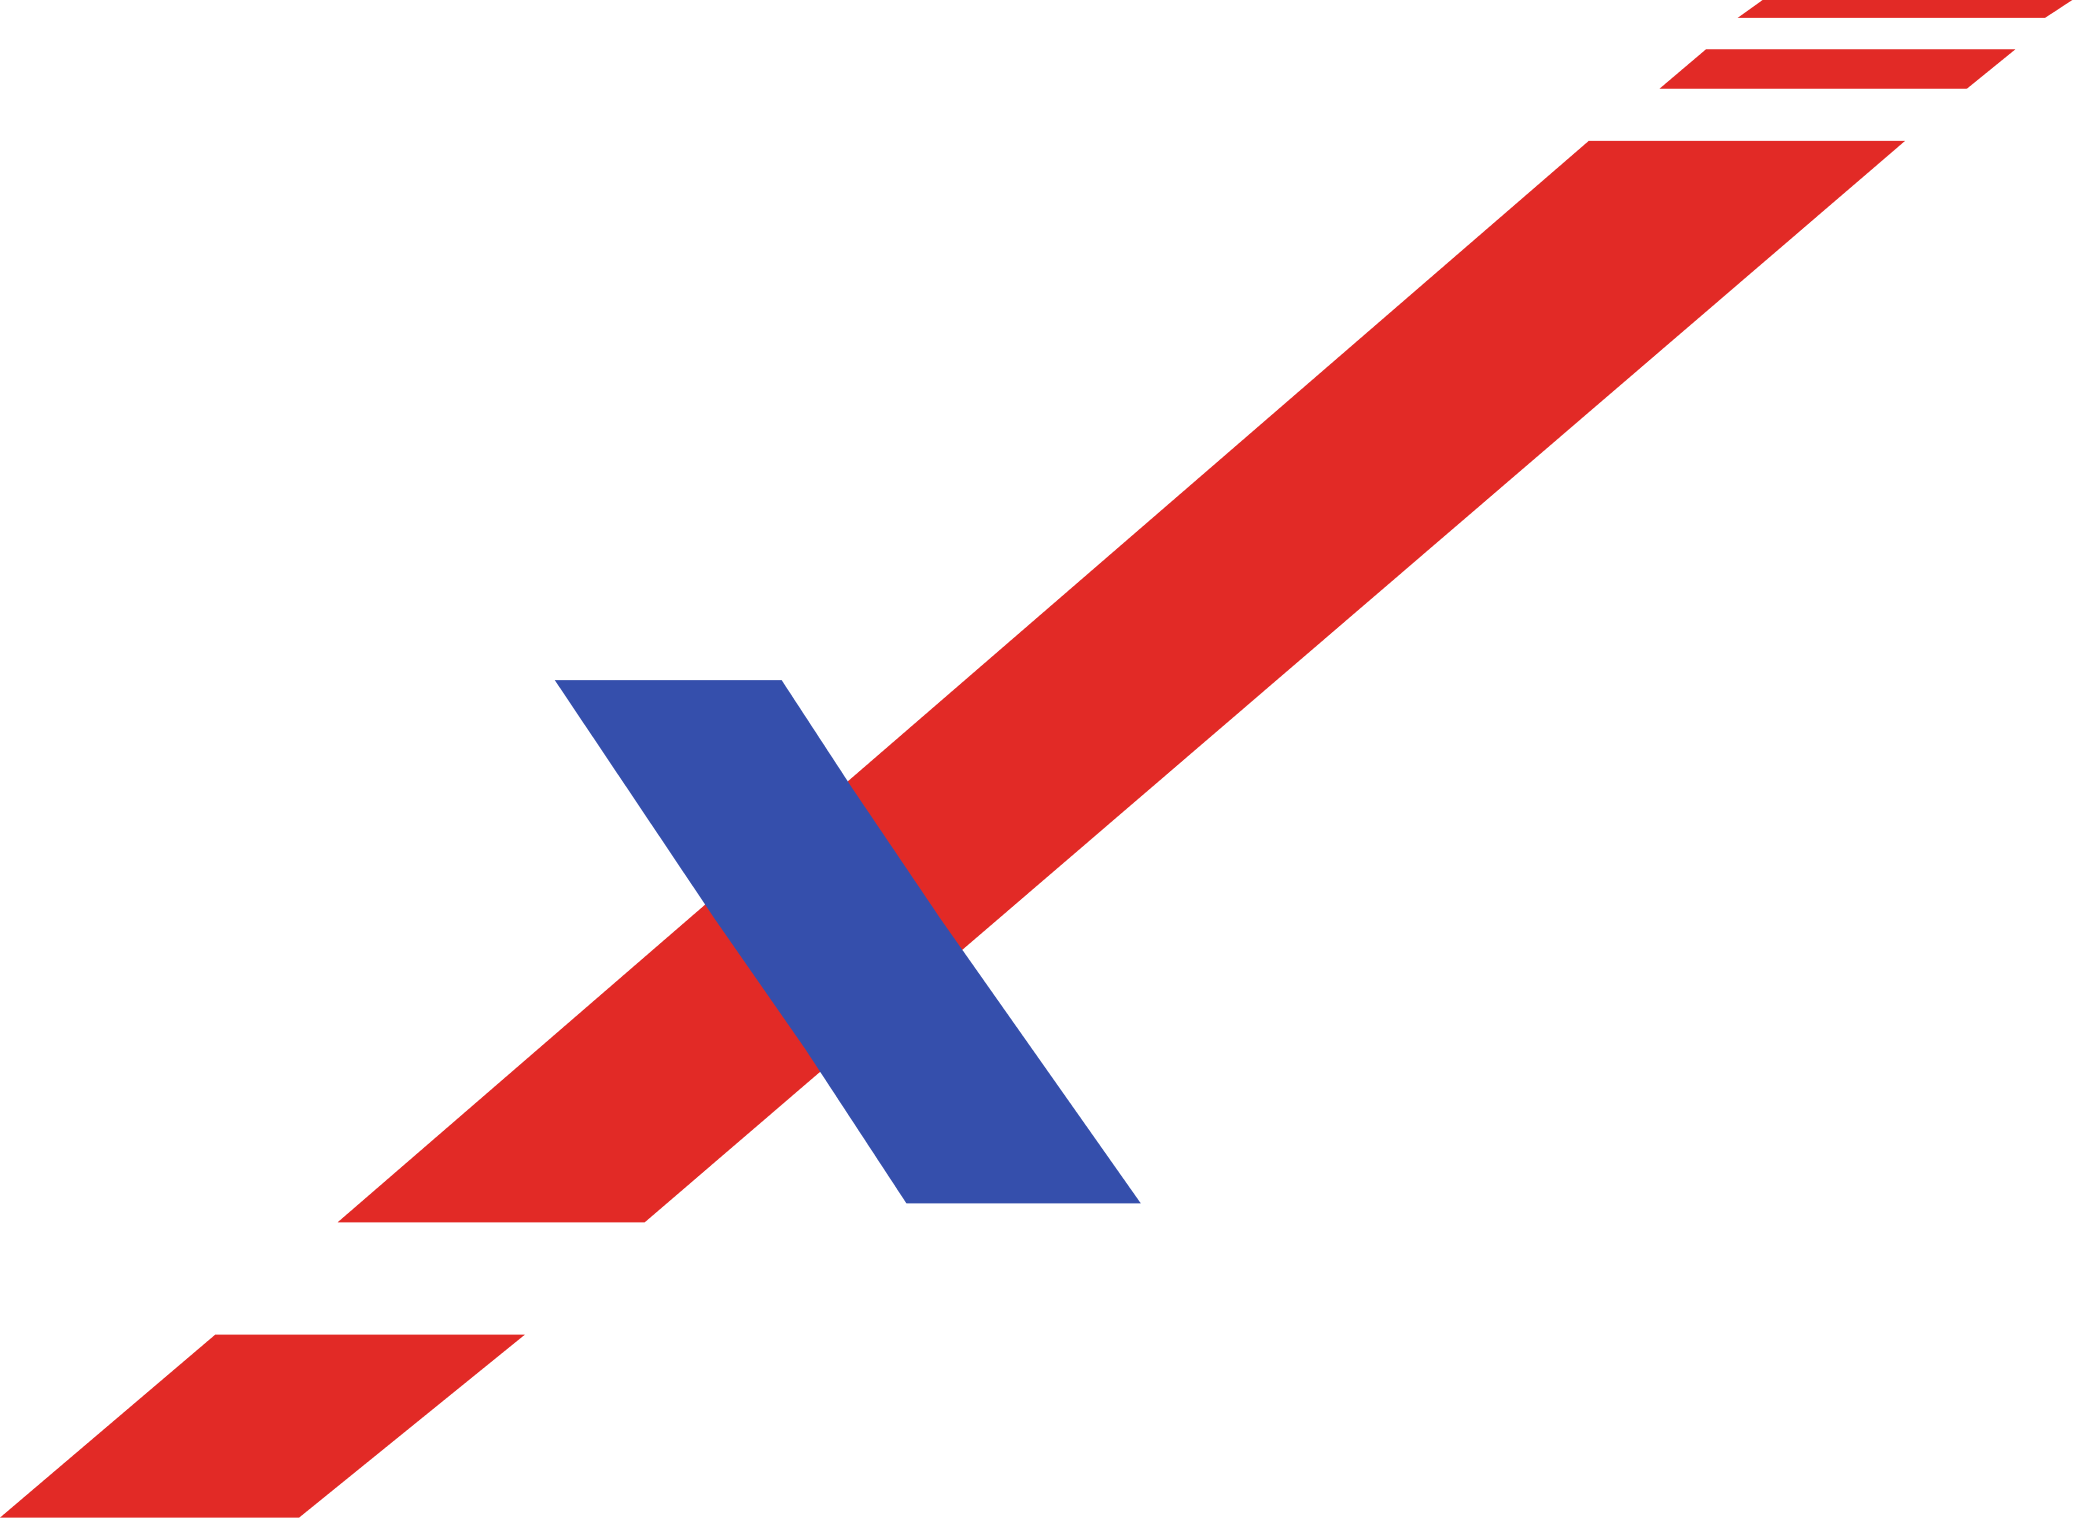
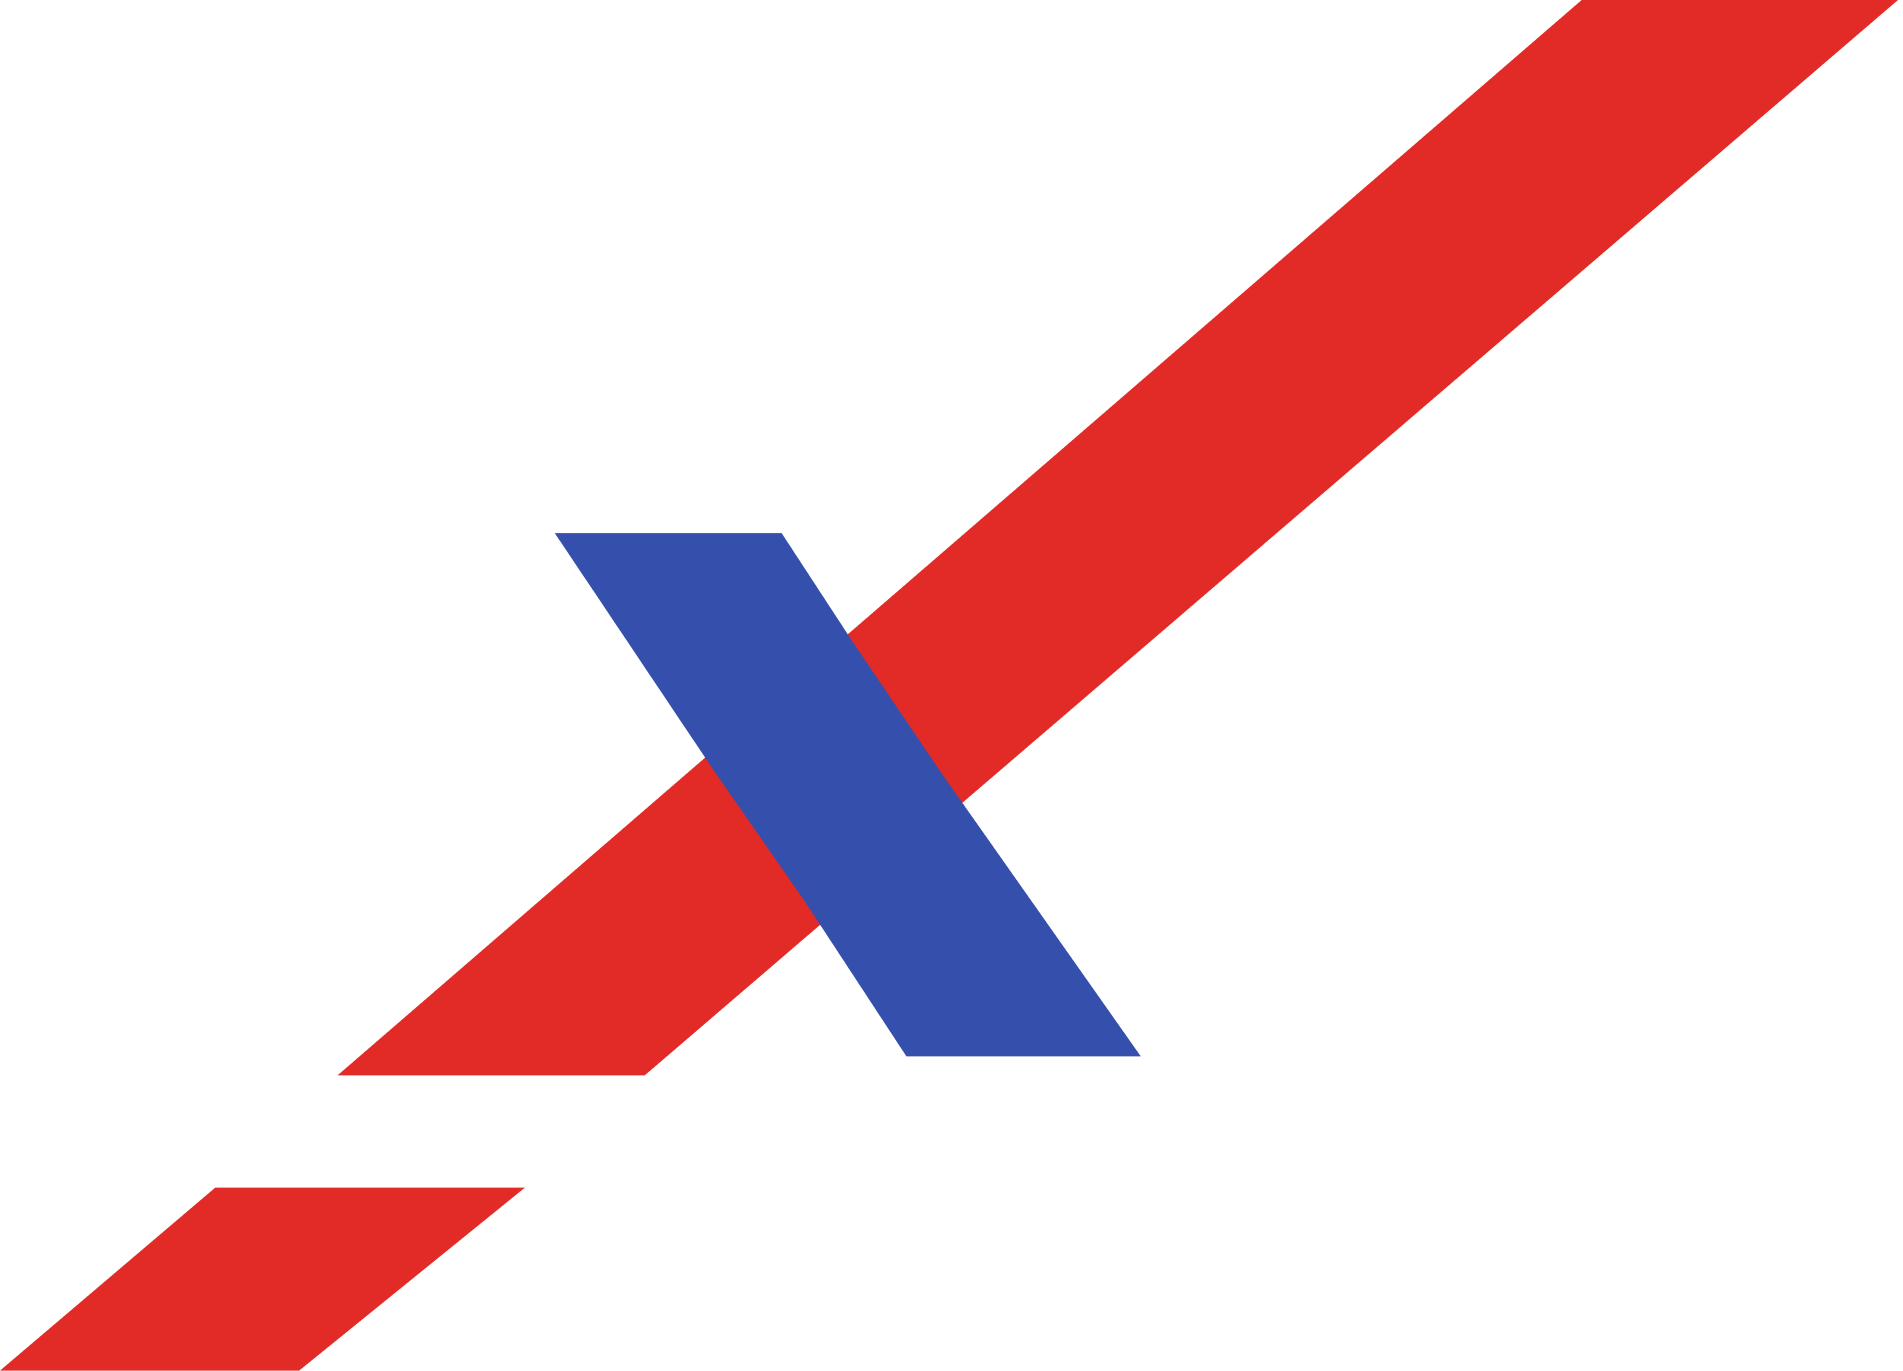
push

diff --git a/src/components/home/HeroSection.jsx b/src/components/home/HeroSection.jsx
@@ -16,14 +16,14 @@ export default function HeroSection({ isScrolled }) {
       const fullWidth = rect.width;
       const fullHeight = rect.height;
 
-      // Full hypotenuse (Pythagoras theorem)
+     
       const fullHypotenuse = Math.sqrt(fullWidth ** 2 + fullHeight ** 2);
 
-      // 100vh ki height
+     
       const vhHeight = window.innerHeight;
 
       // 45° slope ke liye base = height
-      const baseAt100vh = vhHeight * (fullWidth / fullHeight);
+      const baseAt100vh = vhHeight * ((fullWidth) / fullHeight);
 
       // Hypotenuse for 100vh height
       const hypotenuseAt100vh = Math.sqrt(baseAt100vh ** 2 + vhHeight ** 2);
@@ -58,18 +58,18 @@ export default function HeroSection({ isScrolled }) {
       <section className="hero-section global-container ">
         <div
           ref={overlayRef}
-          className="hero-diagonal-overlay "
-        ></div> 
-        <img
+          className="hero-diagonal-overlay border-4 border-green-500 "
+        ></div>
+        <div
           ref={squareRef}
-          className="square-videon  "
-          src="/images/x-gif.gif"
-          alt="Animation"
-        />
+          className="square-videon flex items-start justify-center squareimg   "
+        >
+          <img src="/images/assets/x1.png" alt="Animation" />
+        </div>
 
         <div className="overlay-X-Mob sm:hidden "></div>
 
-        <div className="hero-content  ">
+        <div className="hero-content border border-red-500  ">
           <h1 className=" hero-heading">
             We Don’t Just Move Freight. <br />
             We Power North American Enterprise.
@@ -83,7 +83,7 @@ export default function HeroSection({ isScrolled }) {
           </a>
         </div>
 
-        <div className="hero-testimonial ">
+        <div className="hero-testimonial border-4 border-red-500 ">
           <div className="star-rating">
             <img src="/images/assets/star.png" alt="star" />
             <img src="/images/assets/star.png" alt="star" />
@@ -102,7 +102,7 @@ export default function HeroSection({ isScrolled }) {
           <p className="testimonial-source">— Paper Manufacturing Industry</p>
         </div>
 
-        <div className="testimonial-cards">
+        <div className="testimonial-cards border border-red-500">
           <div className=" flex justify-end ">
             <p
               className="   text-[46px] font-bold mr-[-.8cm]  "

diff --git a/src/app/globals.css b/src/app/globals.css
@@ -268,7 +268,7 @@ body::-webkit-scrollbar {
   z-index: 0;
   background-color: var(--company-blue, #27397acb);
 
-  clip-path: polygon(100% 0, 100% 100%, 0 100%);
+  clip-path: polygon(100% 0, 100% 100%, 3.5% 100%);
 }
 
 .hero-diagonal-overla::after {
@@ -291,14 +291,17 @@ body::-webkit-scrollbar {
   top: 0;
   right: 0;
 
-  /* width: 854.9861732381049px;       */
+  width: 820.9861732381049px !important;      
   /* aspect-ratio: 1; */
   height: 100vh;
-  /* border: 2px solid white; */
+  border: 2px solid red;
   z-index: 1000;
   /* display: none; */
   /* transform: rotate(-2.5deg); */
+  overflow: hidden;
 }
+
+
 
 .overlay-blue {
   position: absolute;
@@ -498,7 +501,7 @@ span:has(img) {
   letter-spacing: 0.64px;
 }
 .hero-testimonial .testimonial-source {
-  margin-top: 1.8rem;
+  /* margin-top: 1.8rem; */
   font-size: 16.5px;
   font-style: normal;
   line-height: 28.023px;
